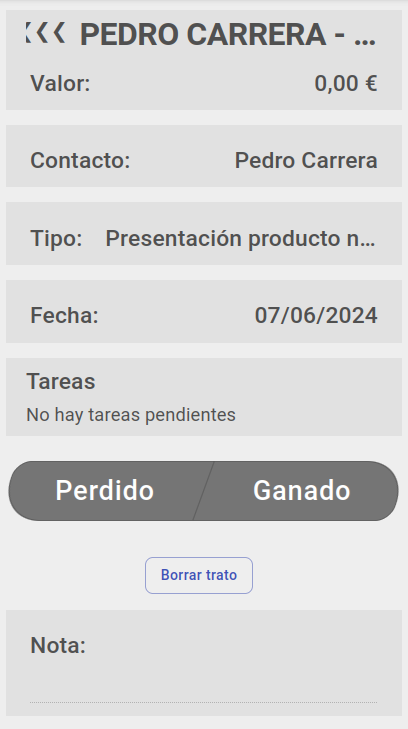
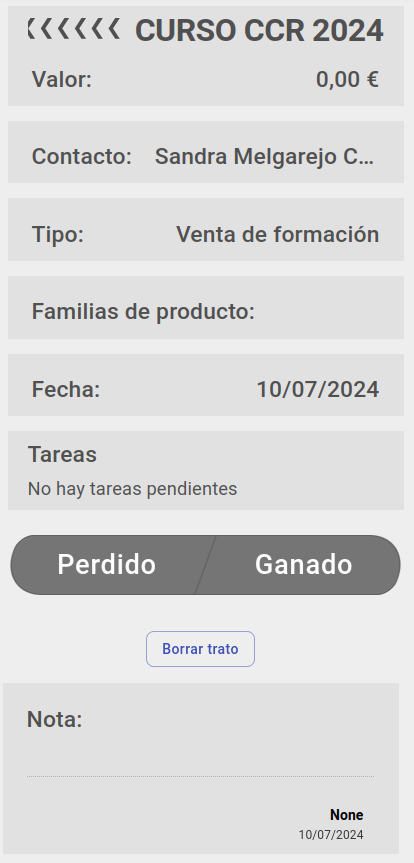
refact(SAN): Añadido al manual de tratos la sección 'Familias de producto'.

diff --git a/proyectos/san/area_facturacion/smart_sales/tratos.md b/proyectos/san/area_facturacion/smart_sales/tratos.md
@@ -25,7 +25,13 @@ Podemos añadir un contacto de la lista usando el buscador o crear un nuevo cont
 
 ### Tipo de trato
 
-Aquí podemos dseleccionar el tipo de trato entre las opciones. Cada tipo de trato tiene asocidas unas características. Que se pueden definir en la sección [tipos de trato](./tipostrato.md).
+Aquí podemos seleccionar el tipo de trato entre las opciones. Cada tipo de trato tiene asocidas unas características. Que se pueden definir en la sección [tipos de trato](./tipostrato.md).
+
+### Familias de producto
+
+Aquí podemos asociar al trato una lista de familias de producto, usando el selector podemos añadir familias a la lista y clicando en el aspa de la izquierda podemos borrar de la lista. Para que los cambios sean efectivos debemos clicar el botón '*guardar*'.
+
+![familia_trato](./img/familia_trato.png)
 
 ### Tareas
 
